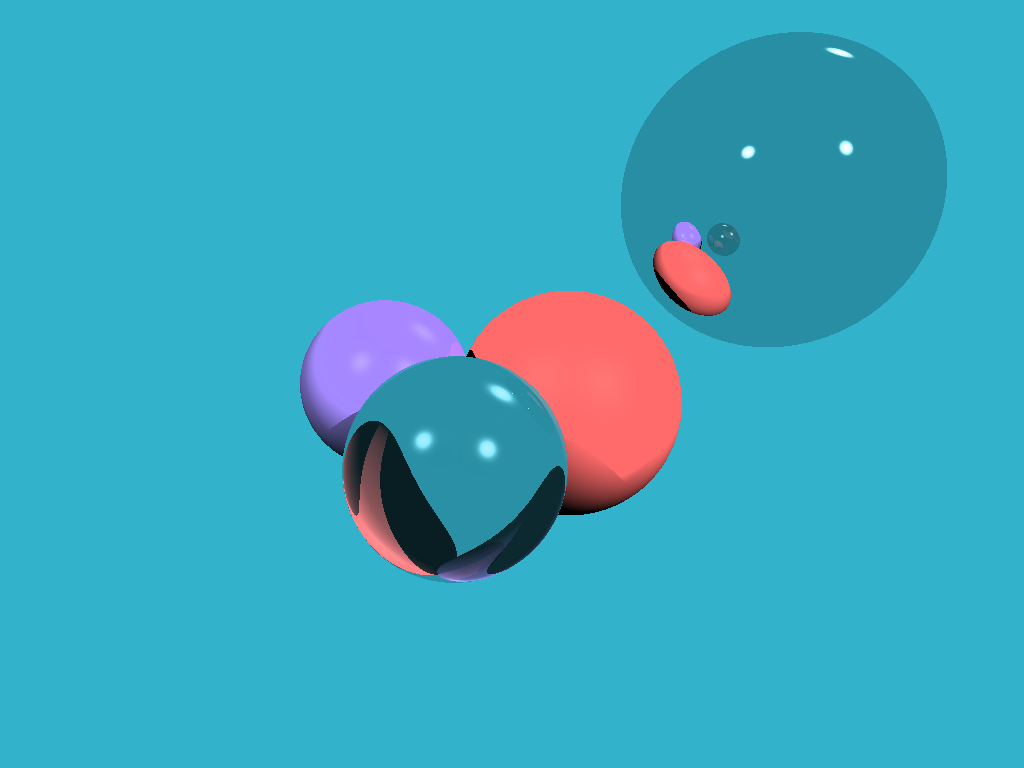
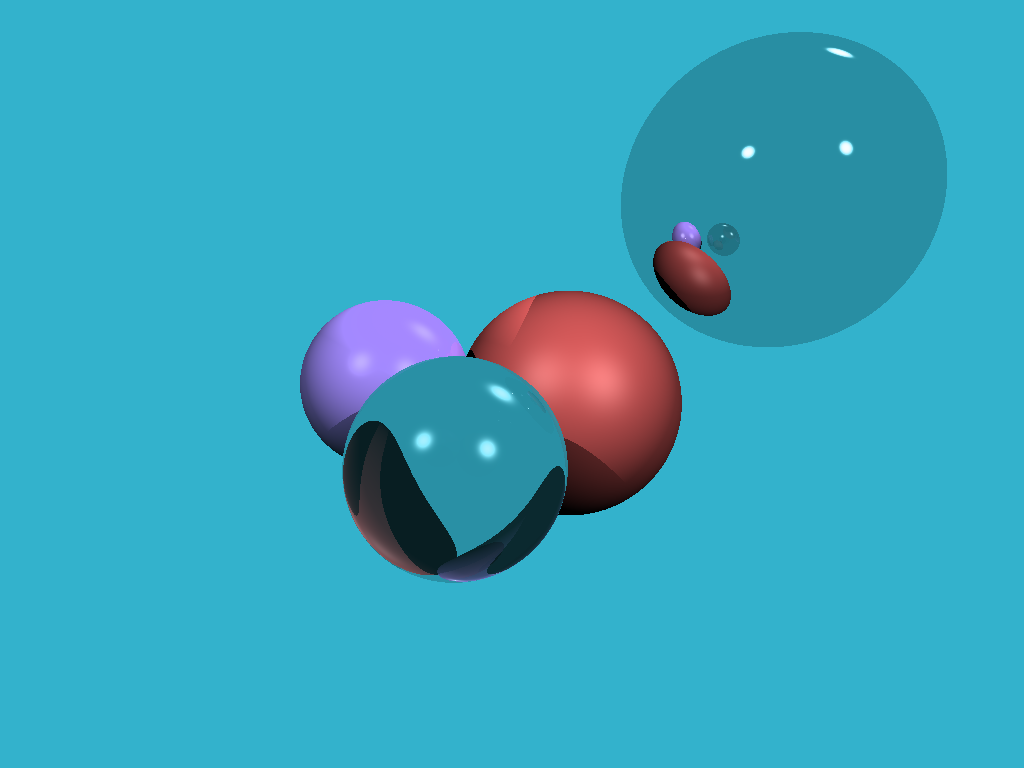
readme

Changed region(s): [[0.4375, 0.375, 0.6875, 0.6875], [0.2812, 0.4062, 0.5, 0.7812], [0.625, 0.2812, 0.7188, 0.4062]]

diff --git a/4-spheresFullLight/tinyraytracer.cpp b/4-spheresFullLight/tinyraytracer.cpp
@@ -67,14 +67,14 @@ vec3 cast_ray(const vec3 &orig, const vec3 &dir, const std::vector<Sphere> &sphe
     }
 
     vec3 reflect_dir = reflect(dir, N).normalize();
-    vec3 reflect_orig = reflect_dir * N < 0 ? point - N*1e-3 : point + N*1e-3; // offset the original point to avoid occlusion by the object itself
+    vec3 reflect_orig = point + N*1e-3; // offset the original point to avoid occlusion by the object itself
     vec3 reflect_color = cast_ray(reflect_orig, reflect_dir, spheres, lights, depth + 1);
 
     float diffuse_light_intensity = 0, specular_light_intensity = 0;
     for (size_t i=0; i<lights.size(); i++) {
         vec3 light_dir      = (lights[i].position - point).normalize();
         float light_distance = (lights[i].position - point).norm();
-        vec3 shadow_orig = light_dir*N < 0 ? point : point + N*1e-3; // checking if the point lies in the shadow of the lights[i]
+        vec3 shadow_orig = point + N*1e-3; // checking if the point lies in the shadow of the lights[i]
         vec3 shadow_pt, shadow_N;
         Material tmpmaterial;
         if (scene_intersect(shadow_orig, light_dir, spheres, shadow_pt, shadow_N, tmpmaterial) && (shadow_pt-shadow_orig).norm() < light_distance)
@@ -83,7 +83,7 @@ vec3 cast_ray(const vec3 &orig, const vec3 &dir, const std::vector<Sphere> &sphe
         diffuse_light_intensity  += lights[i].intensity * std::max(0.f, light_dir*N);
         specular_light_intensity += powf(std::max(0.f, reflect(light_dir, N) * dir), material.specular_exponent) * lights[i].intensity;
     }
-    return material.diffuse_color * diffuse_light_intensity * material.albedo[0] + vec3{1., 1., 1.} * specular_light_intensity * material.albedo[1] + reflect_color * material.albedo[2];;
+    return material.diffuse_color * diffuse_light_intensity * material.albedo[0] + vec3{1., 1., 1.} * specular_light_intensity * material.albedo[1] + reflect_color*material.albedo[2];;
 }
 
 void render(const std::vector<Sphere> &spheres, const std::vector<Light> &lights)
@@ -104,7 +104,7 @@ void render(const std::vector<Sphere> &spheres, const std::vector<Light> &lights
     }
 
     std::ofstream ofs; // save the framebuffer to file
-    ofs.open("./outSpheresSpecularImage.ppm", std::ios::binary);
+    ofs.open("./outSpheresReflectImage.ppm", std::ios::binary);
     ofs << "P6\n" << width << " " << height << "\n255\n";
     for (size_t i = 0; i < height*width; ++i) {
         vec3 &c = framebuffer[i];

diff --git a/readme.md b/readme.md
@@ -20,4 +20,10 @@ https://zhuanlan.zhihu.com/p/434030501
 
 ![](./results/outSpheresWithLightImage1.png)
 
+## 光线追踪实践（四）高光、阴影和反射
+
+https://zhuanlan.zhihu.com/p/439639130
+
+![](./results/outSpheresReflectionImage.png)
+
 ## 持续更新中。。。
